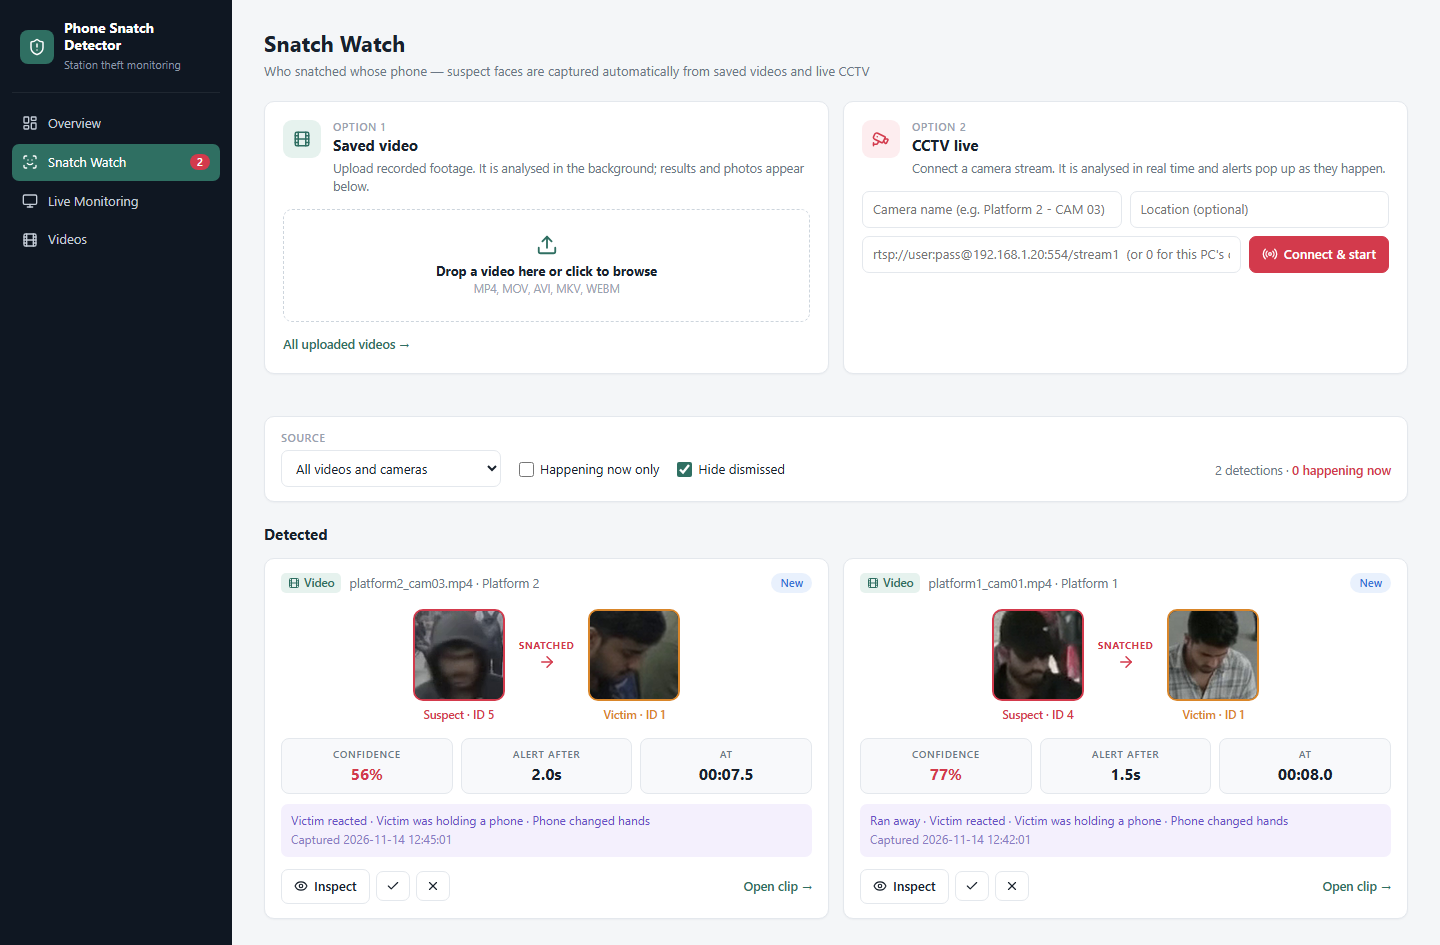
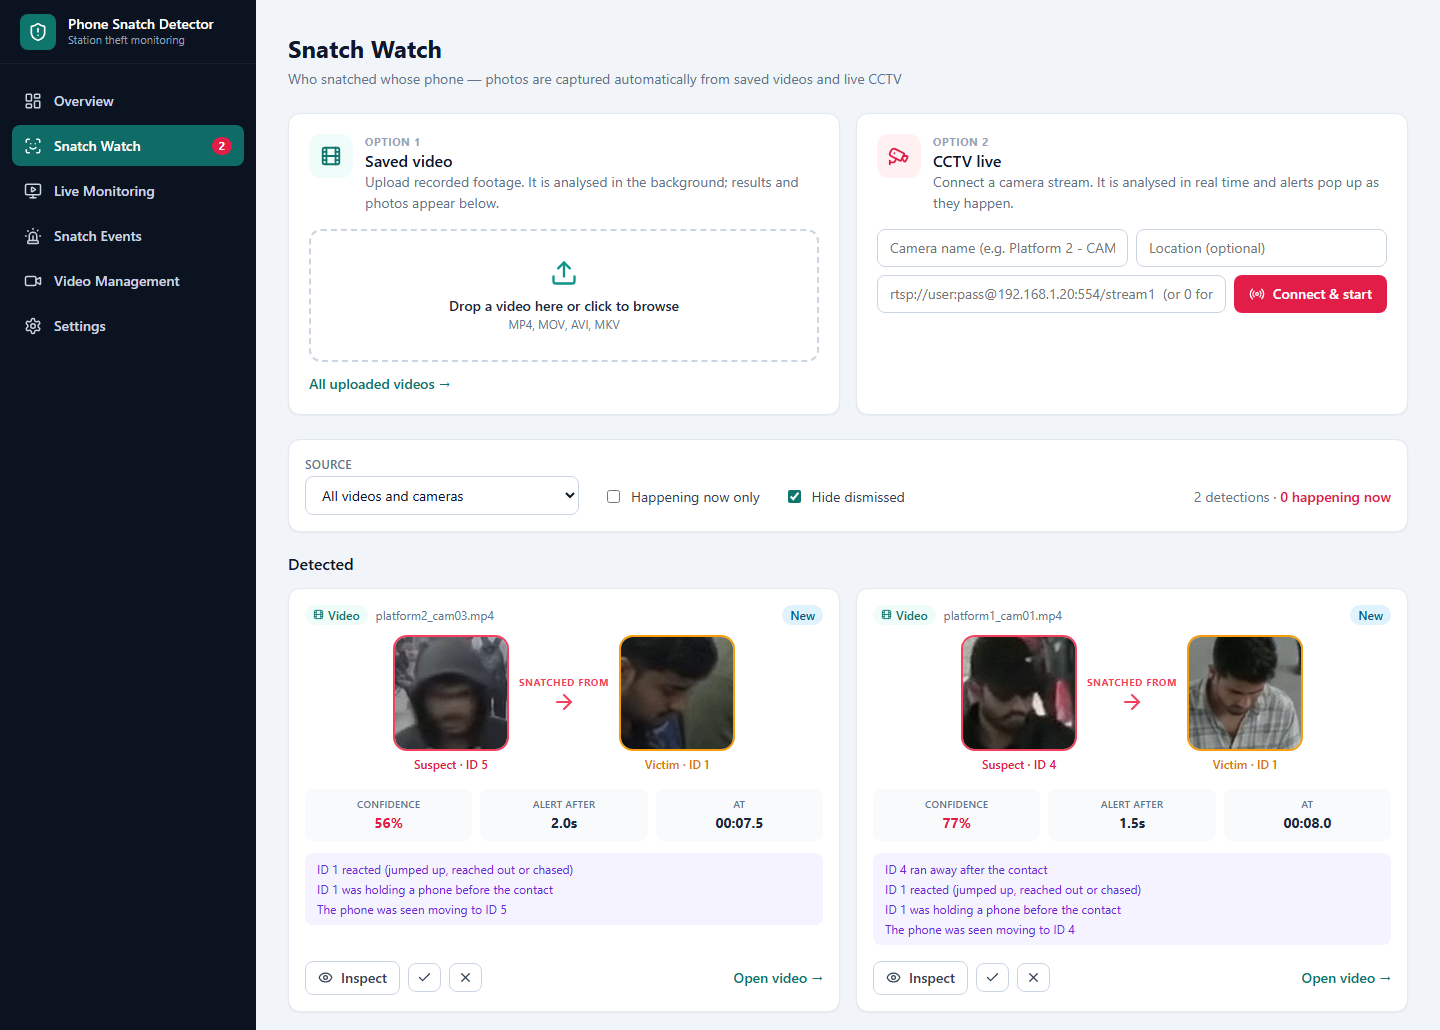
README for the new dashboard: pages, downloads, output layout, phone detector benchmark, new screenshots

diff --git a/README.md b/README.md
@@ -1,23 +1,33 @@
 # Phone Snatch Detector
 
 Real-time detection of mobile phone snatching in railway and bus stations from CCTV footage,
-with automatic capture of the suspect's face.
+with automatic capture of the suspect's and the victim's faces.
 
 ![Python](https://img.shields.io/badge/python-3.11-blue)
-![YOLO11](https://img.shields.io/badge/model-YOLO11-orange)
+![YOLO](https://img.shields.io/badge/models-YOLO26%20%2B%20YOLO11--pose-orange)
 ![License](https://img.shields.io/badge/license-MIT-green)
 
 ## Screenshots
 
-**Snatch Watch** - upload a recorded video or connect a CCTV camera. Every captured snatch
-appears as a card: suspect's face, victim's face, confidence, the evidence that fired, and
-buttons to confirm or dismiss it.
+**Snatch Watch** - upload a recorded video (Option 1) or connect a CCTV camera (Option 2).
+Every captured snatch appears as a card: suspect's face → victim's face, confidence, the
+evidence that fired, and buttons to inspect, confirm or dismiss it.
 
-![Snatch Watch view of the dashboard](docs/dashboard.png)
+![Snatch Watch page](docs/dashboard.png)
 
-**Inspect** - every face shot, the alert frame and the clip of one event, with the score behind each piece of evidence.
+**Event details** - the scanned video jumps to the moment of the snatch; all face shots, body
+pictures, the score behind each piece of evidence, operator notes and downloads.
 
-![Inspect view of one event](docs/inspect.png)
+![Event details](docs/inspect.png)
+
+**Live Monitoring** - the annotated picture while an analysis runs, the scanned video when it is
+done, with download buttons and the detections of that analysis.
+
+![Live Monitoring page](docs/monitor.png)
+
+**Video Management** - every uploaded video with its analysis, results, downloads and delete.
+
+![Video Management page](docs/videos.png)
 
 **Detection** - the suspect is outlined in red the moment the snatch is confirmed; the stolen phone is boxed in yellow.
 
@@ -39,27 +49,29 @@ This project detects the **behaviour pattern of a snatch** instead:
 Each contact between two people is watched for a few seconds and scored on this evidence.
 A friendly hand-over has no flight and no reaction, so it stays below the alert threshold.
 
-When a snatch is detected the system saves the suspect's best face shots, body image, the
-victim, the alert frame and a short video clip, and shows them on a web dashboard with the
-capture time.
+When a snatch is detected the system saves the best face shots of the suspect and the victim,
+their body pictures, the alert frame and a short clip, and shows them on a web dashboard.
 
 ## Features
 
 - **Snatch detection, not object detection** - combines contact, flight, victim reaction and phone evidence
 - **Hand-over aware** - passing a phone to a friend does not raise an alert
 - **Crowd ready** - every person is tracked with an ID; scoring is per pair of people
-- **Best-face capture** - keeps the four best faces of each tracked person, ranked by size, frontal pose and sharpness, taken at different moments
-- **Evidence package** - suspect and victim faces, body images, alert frame, video clip and a JSON record per event
-- **Operator dashboard** - upload videos or connect cameras, suspect-to-victim cards, confirm / dismiss review, filters, pop-up alerts, live view and a video library
-- **Live CCTV** - RTSP / HTTP streams and USB cameras, with automatic reconnect and frame dropping to stay in real time
-- **No training required** - uses pretrained YOLO11 models; weights download on first run
+- **Phones in the hand** - YOLO26 phone detector at 1280 px; weak detections are accepted only when they sit at a wrist
+- **Best-face capture** - keeps the four best faces of each tracked person, ranked by size, frontal pose and sharpness
+- **One analysis per video** - results of different videos never mix; re-analysing a video replaces its old result
+- **Operator dashboard** - Overview, Snatch Watch, Live Monitoring, Snatch Events, Video Management and Settings
+- **Downloads** - scanned (annotated) video, original video, each event's photos and clip as a zip, all events as CSV
+- **Live CCTV** - RTSP / HTTP streams and USB cameras, saved cameras, automatic reconnect, pop-up alerts
+- **Adjustable** - models and every detection threshold can be changed on the Settings page
+- **No training required** - pretrained models; weights download on first run
 
 ## How it works
 
 ```mermaid
 flowchart LR
     A[Video file / CCTV stream] --> B[YOLO11 pose + ByteTrack<br>people, IDs, 17 keypoints]
-    A --> C[YOLO11 detect<br>cell phones at 1280 px]
+    A --> C[YOLO26 detect<br>phones at 1280 px]
     B --> D[Phone-to-wrist association]
     C --> D
     B --> E[Contact detection<br>hand reaches hand]
@@ -89,6 +101,17 @@ An alert needs a score of at least **0.55** and one of two patterns:
 Speeds and distances are normalised by each person's body height, so the same thresholds work
 for people near to and far from the camera.
 
+### Phone detection
+
+A phone held in the hand is 10-25 pixels on a station camera and partly covered by fingers.
+Three things make it visible to the system:
+
+- **YOLO26s** as the phone detector. On the test clips it finds clearly more held phones than YOLO11s, and runs faster (see [Performance](#performance)).
+- **1280 px** inference resolution for phones, higher than the 960 px used for people.
+- **Wrist-guided threshold** - a box needs 25 % confidence anywhere in the picture, but only 5 % when it sits at someone's wrist. A weak box at a hand is almost always a real phone; elsewhere it is usually noise.
+
+YOLO26 has no NMS step, so one phone can come with weaker boxes on top of it; overlapping boxes are merged.
+
 ### Face capture
 
 Faces are located from the pose keypoints (nose, eyes, shoulders) and scored every frame:
@@ -103,17 +126,17 @@ Faces keep improving for three seconds after the alert.
 
 ```
 detect.py          detection pipeline and command line tool
-dashboard.py       web dashboard (Python standard library only)
+dashboard.py       dashboard server: analyses queue, videos, cameras, events, settings (standard library only)
+web/               dashboard page: index.html, app.css, app.js (no build step)
 requirements.txt
 docs/              screenshots used in this README
-output/            created at run time
-  events/          one folder per detected snatch
-  uploads/         videos uploaded through the dashboard
+output/            created at run time, see Output
 ```
 
 ## Installation
 
-Requires Python 3.11. FFmpeg on the `PATH` is optional; it makes event clips playable in the browser.
+Requires Python 3.11. FFmpeg on the `PATH` is recommended: it makes the scanned video and the
+event clips playable in the browser.
 
 ```bash
 git clone https://github.com/sanaulislamzihad/Phone-Snatch-detector.git
@@ -140,33 +163,28 @@ Install PyTorch for your hardware, then the remaining packages:
 .venv\Scripts\python dashboard.py
 ```
 
-Open <http://localhost:8000>. The sidebar has four views.
+Open <http://localhost:8000>.
 
-| View | What it does |
+| Page | What it does |
 |------|--------------|
-| **Overview** | Totals (snatches, suspect faces, awaiting review, confirmed), the latest detections and the detector's state |
-| **Snatch Watch** | *Option 1 - Saved video:* drop a recorded file; it is analysed in the background. *Option 2 - CCTV live:* enter a camera name, an optional location and the RTSP address (or `0` for a camera on the PC), then *Connect & start*. Below, every detection as a card |
-| **Live Monitoring** | The annotated picture of the video or camera being analysed, with progress and a *Stop* button |
-| **Videos** | Every uploaded video with its size, upload time and number of detections; *Analyse again* re-runs one |
+| **Overview** | Totals (snatches, suspect faces, analyses, running now), analyses in progress, recent snatch alerts, recent analyses |
+| **Snatch Watch** | *Option 1 - Saved video:* drop a recorded file. *Option 2 - CCTV live:* camera name, optional location and RTSP address (or `0` for a camera on the PC), then *Connect & start*; saved cameras can be started, stopped and removed. Below: one card per detection. The source filter shows the newest analysis by default, so a new scan never mixes with old results; pick *All videos and cameras* to see everything |
+| **Live Monitoring** | Pick an analysis: the live annotated picture while it runs, the scanned video when it is done. *Stop*, *Scanned video* and *Original* downloads, live status and the detections of that analysis |
+| **Snatch Events** | Table of every detection with filters (analysis, review status, minimum confidence), review buttons, zip download per event and *Export CSV* |
+| **Video Management** | Upload several videos at once (they are analysed one after another), follow progress, open, download the scanned or original video, *Analyse again*, *Delete* (removes the video, its scanned video and all its detections). CCTV sessions are listed and deletable too |
+| **Settings** | Phone and pose models, resolutions, processor, frame step and every detection threshold. Applies to the next analysis |
 
-Each detection card shows:
+Each detection card shows the source (**Video** / **CCTV**), the suspect's face → the victim's face
+with their track IDs, **Confidence**, **Alert after** (seconds from the grab to the alert) and
+**At** (position in the video, or clock time for a camera), the evidence that fired, and
+*Inspect*, ✓ *confirm*, ✕ *dismiss* (press again to undo). *Inspect* opens the event details,
+where the operator can add notes and mark the event *confirmed*, *reviewed* or *dismissed*.
 
-- source type (**Video** or **CCTV**), source name and location, and a review badge (*New*, *Confirmed*, *Dismissed*)
-- the suspect's best face, an arrow, and the victim's face, with their track IDs
-- **Confidence**, **Alert after** (seconds from the grab to the alert) and **At** (position in the video, or clock time for a camera)
-- the evidence that fired, e.g. *Ran away · Victim reacted · Phone changed hands*
-- **Inspect** opens every face shot, the alert frame, the clip and the score of each piece of evidence;
-  **✓** confirms the theft, **✕** marks a false alarm (press again to undo); *Open clip* plays the clip
+While a camera is connected, new detections pop up in the corner. A detection can be linked to
+directly: `http://localhost:8000/#/watch?event=<analysis>/<event folder>`.
 
-Filters narrow the list by source, to events from a live camera in the last two minutes
-(*Happening now only*), and hide dismissed events. While a camera is connected, new detections
-also pop up as alerts in the corner. A detection can be linked to directly as
-`http://localhost:8000/#inspect=<event folder name>`.
-
-The dashboard runs one video or camera at a time. It listens on `127.0.0.1` only and is meant to
-be used on the machine that runs it.
-
-![Overview view of the dashboard](docs/overview.png)
+The dashboard listens on `127.0.0.1` only and is meant to be used on the machine that runs it.
+Camera passwords are never sent to the page.
 
 ### Command line
 
@@ -181,13 +199,14 @@ be used on the machine that runs it.
 | `--source` | required | Video file, camera index, or RTSP / HTTP stream address |
 | `--out` | `output` | Output folder |
 | `--name` | source name | Camera or video name stored with each event |
-| `--location` | empty | Where the camera is, e.g. `Platform 2`, stored with each event |
+| `--location` | empty | Where the camera is, e.g. `Platform 2` |
 | `--pose-model` | `yolo11s-pose.pt` | Person / keypoint model |
-| `--phone-model` | `yolo11s.pt` | Phone detection model |
+| `--phone-model` | `yolo26s.pt` | Phone model: any COCO detector, or a YOLOE model (searched with the words "cell phone", "smartphone", "mobile phone") |
 | `--imgsz` | `960` | Inference resolution for people |
 | `--phone-imgsz` | `1280` | Inference resolution for phones |
 | `--device` | auto | `cpu`, or a GPU index such as `0` |
 | `--stride` | `1` | Video files: process every Nth frame |
+| `--settings` | none | JSON file with model choices and `Config` values (the dashboard writes one per analysis) |
 | `--show` | off | Show a live window (`q` to quit) |
 | `--debug` | off | Print the score of every watched contact |
 
@@ -195,24 +214,32 @@ be used on the machine that runs it.
 
 ```
 output/
-  annotated.mp4                      full annotated copy (video files only)
-  events/event_<date>_<time>_001/
-    suspect_face.jpg                 best face of the suspect
-    suspect_face_2.jpg ... _4.jpg    next best faces, from other moments
-    suspect_body.jpg
-    victim_face.jpg                  best face of the victim
-    victim.jpg
-    alert_frame.jpg                  full frame at the alert, suspect outlined
-    clip.mp4                         from 3 s before the contact to 3 s after the alert
-    event.json                       what was detected
-    review.json                      operator's decision, written by the dashboard
+  settings.json                      settings for new analyses (Settings page)
+  cameras.json                       saved CCTV cameras
+  videos/<id>/                       uploaded video + video.json
+  jobs/<id>/                         one analysis
+    job.json                         source, status, times
+    settings.json                    settings this analysis ran with
+    annotated.mp4                    scanned video (video files only)
+    live.jpg, status.json            live picture and progress while running
+    detector.log
+    events/event_<date>_<time>_001/
+      suspect_face.jpg               best face of the suspect
+      suspect_face_2.jpg ... _4.jpg  next best faces, from other moments
+      suspect_body.jpg
+      victim_face.jpg                best face of the victim
+      victim.jpg
+      alert_frame.jpg                full frame at the alert, suspect outlined
+      clip.mp4                       from 3 s before the contact to 3 s after the alert
+      event.json                     what was detected
+      review.json                    operator's decision and notes
 ```
 
 `event.json`:
 
 ```json
 {
-  "captured_at": "2026-11-14 12:42:01",
+  "captured_at": "2026-11-14 13:07:45",
   "source": "platform1_cam01.mp4",
   "location": "Platform 1",
   "live": false,
@@ -227,56 +254,80 @@ output/
 }
 ```
 
-`review.json`: `{"state": "confirmed", "at": "2026-11-14 12:50:10"}` - `state` is `new`, `confirmed` or `dismissed`.
+`review.json`: `{"status": "confirmed", "notes": "...", "at": "2026-11-14 13:20:10"}` - `status` is `new`, `confirmed`, `reviewed` or `dismissed`.
+
+Folders from older versions (`output/uploads`, `output/events`) are moved into this layout
+automatically the first time the dashboard starts.
 
 ## Configuration
 
-Detection thresholds live in the `Config` dataclass at the top of `detect.py`.
+All settings are on the dashboard's **Settings** page; defaults live in the `Config` dataclass at
+the top of `detect.py`.
 
 | Setting | Default | Meaning |
 |---------|:-------:|---------|
+| `phone_model` | `yolo26s.pt` | Phone detector |
+| `phone_imgsz` / `imgsz` | 1280 / 960 | Inference resolution for phones / people |
+| `alert_score` | 0.55 | Score needed for an alert |
 | `walk_speed` / `run_speed` | 0.9 / 2.0 | Body-heights per second that count as walking / running |
 | `flee_min_speed` | 1.4 | Minimum peak speed for the sprint pattern |
 | `flee_min_dist` | 0.9 | Body-heights the suspect must move away from the contact point |
 | `contact_dist` | 0.20 | Hand-to-hand distance (x body height) that counts as contact |
-| `phone_wrist_dist` | 0.22 | Phone-to-wrist distance (x body height) that counts as holding |
 | `watch_seconds` | 3.5 | How long a contact is watched |
-| `alert_score` | 0.55 | Score needed for an alert |
+| `phone_conf` / `phone_conf_hand` | 0.25 / 0.05 | Phone confidence needed anywhere / at a wrist |
+| `phone_wrist_dist` | 0.22 | Phone-to-wrist distance (x body height) that counts as holding |
 
 ## Performance
 
-Measured on the development machine (laptop CPU, no GPU), 1280x720 video, default settings:
+Measured on the development machine (laptop CPU, no GPU), 1280x720 video, default settings.
+
+**Phone detection** - first 3 seconds of two clips in which two seated people each hold a phone,
+every 6th frame (24 frames, 48 phones). A phone counts as found when a box lands at the right wrist.
+
+| Phone model | Resolution | Phones found | Time per frame (phone model only) |
+|-------------|:----------:|:------------:|:---------------------------------:|
+| YOLO11s (previous default) | 1280 | 35 / 48 | 620 ms |
+| YOLO11s, 5 % threshold | 1280 | 43 / 48 | 460 ms |
+| **YOLO26s (default)** | **1280** | **46 / 48** | **416 ms** |
+| YOLO26m | 1280 | 46 / 48 | 1303 ms |
+| YOLO26l | 1280 | 46 / 48 | 1594 ms |
+| YOLO26s | 1920 | 46 / 48 | 1301 ms |
+| YOLOE-26s, text prompt "phone" | 1280 | 44 / 48 | 903 ms |
+| YOLOE-26m, text prompt "phone" | 1280 | 46 / 48 | 2618 ms |
+
+No configuration produced phone boxes away from people's hands on these frames.
+
+**Snatch detection**
 
 | Measurement | Result |
 |-------------|--------|
-| Processing speed | about 1 frame per second |
-| Phone held by a seated person, detected at 960 px | 3 of 55 sampled frames |
-| Same phone, detected at 1280 px (default) | 37 of 55 sampled frames |
-| Snatch detected when processing 24 frames/s | 2 of 2 test clips |
-| Snatch detected when processing 8 frames/s | 2 of 2 test clips |
-| Snatch detected when processing 4 frames/s | 0 of 2 test clips |
+| Processing speed, whole pipeline | about 1 frame per second |
+| Snatch detected when processing 24 frames/s (YOLO26s) | 2 of 2 test clips |
+| Snatch detected when processing 8 frames/s (measured with YOLO11s) | 2 of 2 test clips |
+| Snatch detected when processing 4 frames/s (measured with YOLO11s) | 0 of 2 test clips |
 
 **Live cameras need about 8 processed frames per second or more.** A snatch lasts well under a
 second, and at lower rates the contact falls between frames. On a CPU-only machine recorded
 videos are analysed correctly (slower than real time), but a live camera needs an NVIDIA GPU
-(`--device 0`).
+(Settings → Processor).
 
 ## Limitations
 
-- **Validated on two short clips only.** Thresholds were tuned on them; expect to re-tune on footage from the actual station, and expect both missed events and false alerts until then.
+- **Validated on short test clips only.** Thresholds were tuned on them; expect to re-tune on footage from the actual station, and expect both missed events and false alerts until then.
 - **Facial expression is not used.** A face on a station camera is typically 20-40 pixels, too small for reliable emotion recognition. The victim's reaction is read from body pose and movement instead.
 - **Motion toward or away from the camera** is under-measured in the image. The *grab* pattern compensates, but depends on the phone being seen in both hands.
-- **Phone visibility.** Small, dark or hidden phones are missed; an alert is still possible from a clear sprint plus a victim reaction.
+- **Phone visibility.** Phones hidden in a palm or pocket are missed; an alert is still possible from a clear sprint plus a victim reaction.
 - **Face quality** depends on camera position and resolution. A cap, hood, mask or a face turned away gives a poor capture.
-- **One camera at a time.** A suspect is not followed from one camera to another.
+- **One analysis at a time.** Further videos wait in a queue; a suspect is not followed from one camera to another.
 - **Identity switches** in dense crowds can split one person into two tracks and lose evidence.
+- **YOLOE models** need the `clip` package; Ultralytics installs it automatically the first time one is selected.
 
 ## Responsible use
 
 This system produces *leads for a human operator*, not proof. Every alert should be reviewed
 by a person before any action is taken. Recording and storing faces of people in public places
 is regulated in many jurisdictions - check the applicable law, display the required notices,
-restrict access to the output folder, and delete events that are not needed.
+restrict access to the output folder, and delete videos and events that are not needed.
 
 ## Roadmap
 
